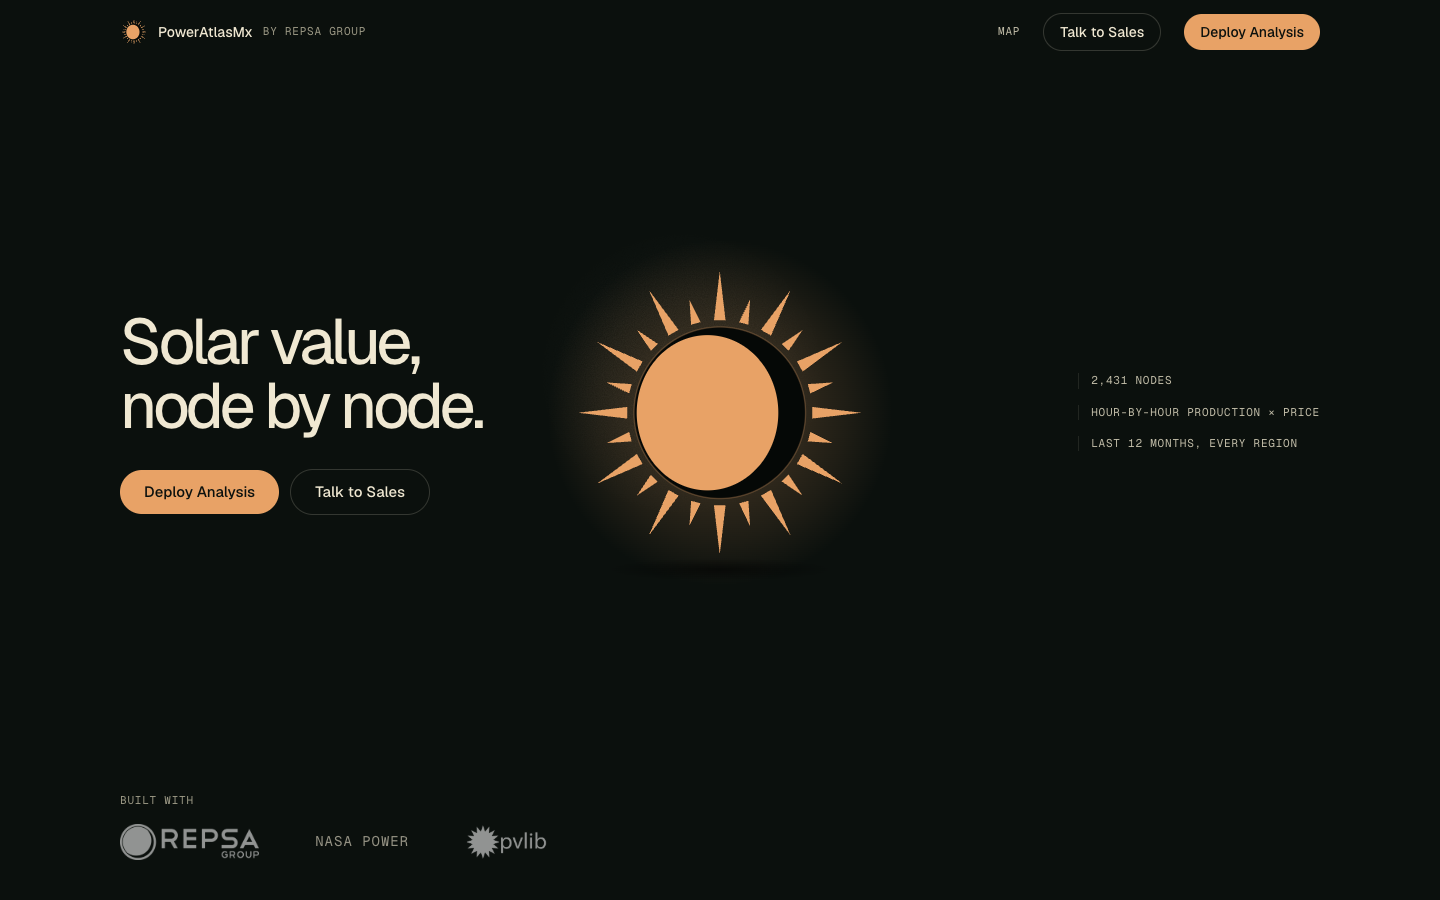
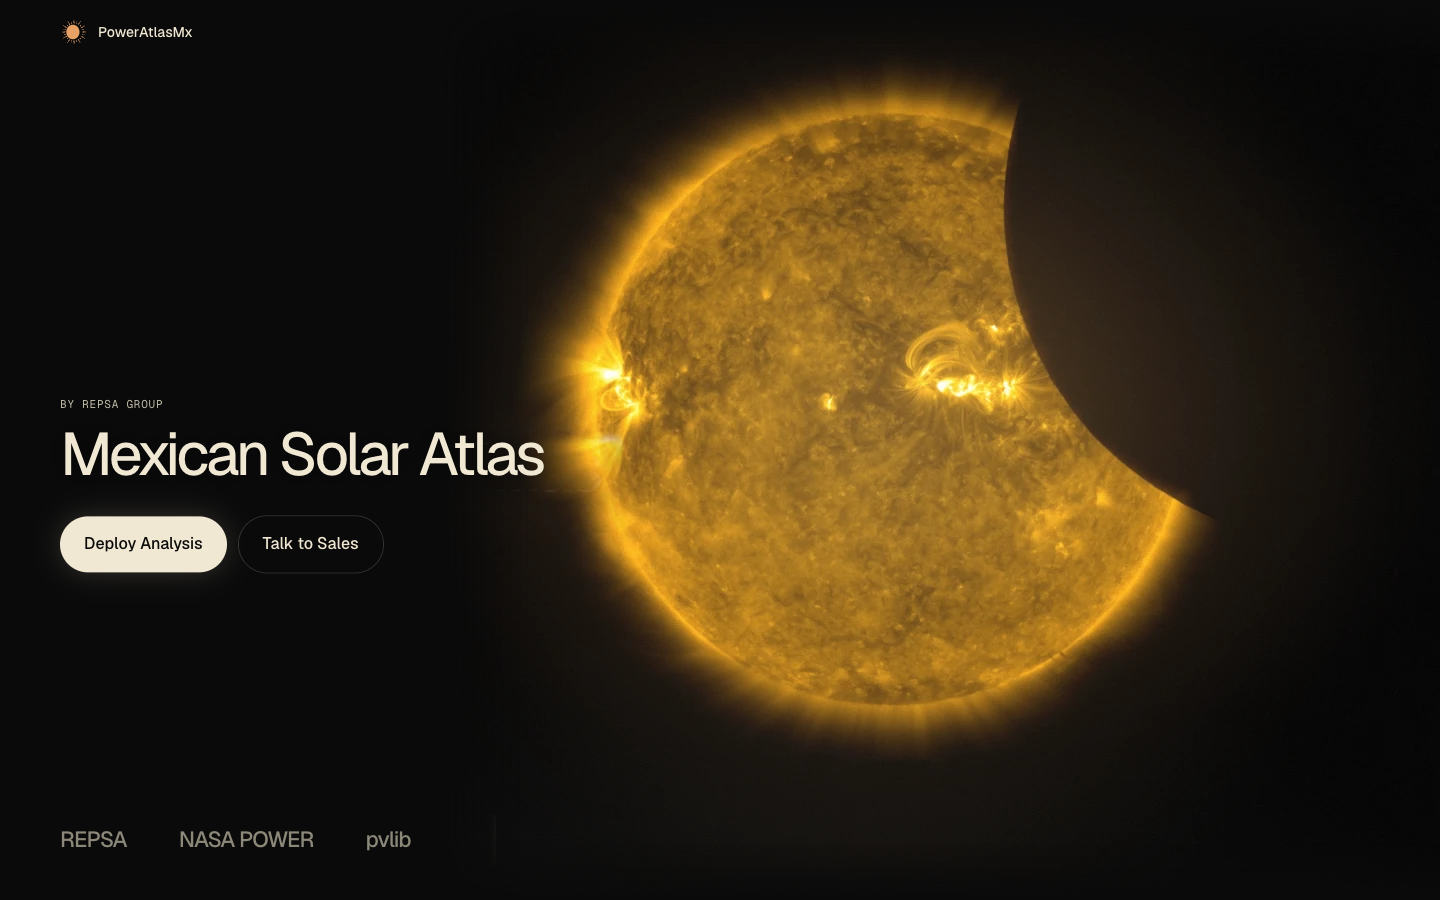
v2: landing from approved mock

diff --git a/web/v2/assets/js/landing.js b/web/v2/assets/js/landing.js
@@ -1,70 +1,51 @@
-// Landing: nav, hero, logo strip, Talk to Sales modal.
+// Landing (from the approved mock): black page, eclipse photo right of centre, headline, two pills, muted wordmarks.
 import { CONFIG } from '../../config.js';
 import { eclipseSVG } from './logo.js';
 
-const STAMPS = ['2,431 nodes', 'Hour-by-hour production × price', 'Last 12 months, every region'];
-
 async function clientLogos() {
   try {
-    const r = await fetch('assets/img/clients/manifest.json');
-    const j = await r.json();
+    const j = await (await fetch('assets/img/clients/manifest.json')).json();
     return Array.isArray(j.clients) ? j.clients : [];
   } catch { return []; }
 }
 
-const grain = `<svg class="grain" width="100%" height="100%" aria-hidden="true"><filter id="g"><feTurbulence type="fractalNoise" baseFrequency=".9" numOctaves="2" stitchTiles="stitch"/><feColorMatrix values="0 0 0 0 1  0 0 0 0 .8  0 0 0 0 .6  0 0 0 1.4 -.2"/></filter><rect width="100%" height="100%" filter="url(#g)"/></svg>`;
-
 export function renderLanding(root) {
   const email = CONFIG.CONTACT_EMAIL;
   root.innerHTML = `
-  <header class="nav">
-    <a class="brand" href="#/" aria-label="${CONFIG.PRODUCT}, home">${eclipseSVG()}<span>${CONFIG.PRODUCT}</span><span class="by mono">${CONFIG.BYLINE}</span></a>
-    <span class="spacer"></span>
-    <nav class="nav-links mono" aria-label="Primary"><a href="#/map">Map</a></nav>
-    <button class="btn btn-ghost btn-sm" data-sales ${email ? '' : 'disabled title="Contact address pending"'}>Talk to Sales</button>
-    <a class="btn btn-primary btn-sm" href="#/map">Deploy Analysis</a>
-  </header>
-  <main class="hero">
-    <section class="hero-main" aria-labelledby="h1">
-      <div>
-        <h1 id="h1">Solar value,<br>node by node.</h1>
-        <div class="hero-cta">
-          <a class="btn btn-primary" id="deploy" href="#/map">Deploy Analysis</a>
-          <button class="btn btn-ghost" data-sales ${email ? '' : 'disabled title="Contact address pending"'}>Talk to Sales</button>
-        </div>
+  <div class="landing">
+    <img class="hero-sun" id="sun" src="assets/img/hero-sun.webp" alt="" width="1000" height="900" decoding="async" fetchpriority="high">
+    <header class="nav">
+      <a class="brand" href="#/" aria-label="${CONFIG.PRODUCT}, home">${eclipseSVG()}<span>${CONFIG.PRODUCT}</span></a>
+    </header>
+    <main class="land-main">
+      <p class="mono eyebrow">${CONFIG.BYLINE}</p>
+      <h1 id="h1">Mexican Solar Atlas</h1>
+      <div class="hero-cta">
+        <a class="btn btn-cream" id="deploy" href="#/map">Deploy Analysis</a>
+        <button class="btn btn-dark" data-sales ${email ? '' : 'disabled title="Contact address pending"'}>Talk to Sales</button>
       </div>
-      <div class="hero-mark" aria-hidden="true"><div class="glow"></div>${grain}<div class="shadow"></div>${eclipseSVG({ cls: 'mark' })}</div>
-      <ul class="stamps mono" aria-label="Highlights">${STAMPS.map((s) => `<li>${s}</li>`).join('')}</ul>
-    </section>
-    <section class="strip" aria-label="Built with">
-      <div class="strip-label mono">Built with</div>
-      <ul id="logos">
-        <li><img src="assets/img/repsa-logo.png" alt="REPSA Group"></li>
-        <li><span class="word mono">NASA POWER</span></li>
-        <li><img src="assets/img/pvlib-logo.png" alt="pvlib"></li>
-      </ul>
-    </section>
-  </main>
-  <div class="modal" id="sales" hidden role="dialog" aria-modal="true" aria-labelledby="sales-h">
-    <form id="sales-form">
-      <h2 id="sales-h">Talk to Sales</h2>
-      <label><span class="mono">Your name</span><input name="name" autocomplete="name" required></label>
-      <label><span class="mono">Company</span><input name="company" autocomplete="organization"></label>
-      <label><span class="mono">What do you want to look at?</span><textarea name="msg"></textarea></label>
-      <div class="row"><button type="button" class="btn btn-ghost btn-sm" data-close>Cancel</button><button class="btn btn-primary btn-sm" type="submit">Open email</button></div>
-    </form>
+    </main>
+    <footer class="land-strip" aria-label="Built with">
+      <ul id="logos"><li>REPSA</li><li>NASA POWER</li><li>pvlib</li></ul>
+    </footer>
+    <div class="modal" id="sales" hidden role="dialog" aria-modal="true" aria-labelledby="sales-h">
+      <form id="sales-form">
+        <h2 id="sales-h">Talk to Sales</h2>
+        <label><span class="mono">Your name</span><input name="name" autocomplete="name" required></label>
+        <label><span class="mono">Company</span><input name="company" autocomplete="organization"></label>
+        <label><span class="mono">What do you want to look at?</span><textarea name="msg"></textarea></label>
+        <div class="row"><button type="button" class="btn btn-ghost btn-sm" data-close>Cancel</button><button class="btn btn-cream btn-sm" type="submit">Open email</button></div>
+      </form>
+    </div>
   </div>`;
 
-  // append client logos from the manifest (empty until Nico supplies them)
   clientLogos().then((list) => {
     const ul = root.querySelector('#logos');
     if (!ul) return;
     for (const c of list) {
       if (!c || !c.src || !c.name) continue;
-      const li = document.createElement('li');
-      const img = document.createElement('img');
-      img.src = c.src; img.alt = c.name;
-      li.append(img); ul.prepend(li);
+      const li = document.createElement('li'); const img = document.createElement('img');
+      img.src = c.src; img.alt = c.name; li.append(img); ul.prepend(li);
     }
   });
 

diff --git a/web/v2/assets/css/base.css b/web/v2/assets/css/base.css
@@ -1,6 +1,6 @@
 *, *::before, *::after { box-sizing: border-box; }
 html, body { margin: 0; height: 100%; }
-body { background: var(--canvas); color: var(--ink); font: 450 15px/1.5 var(--font-sans); -webkit-font-smoothing: antialiased; overflow-x: hidden; }
+body { background: var(--black); color: var(--ink); font: 450 15px/1.5 var(--font-sans); -webkit-font-smoothing: antialiased; overflow-x: hidden; }
 a { color: inherit; }
 button { font: inherit; color: inherit; cursor: pointer; }
 :focus-visible { outline: 2px solid var(--accent); outline-offset: 2px; }
@@ -25,31 +25,6 @@ button { font: inherit; color: inherit; cursor: pointer; }
 .btn-sm { height: 36px; padding: 0 16px; font-size: 14px; }
 .btn[disabled] { opacity: .5; cursor: not-allowed; }
 
-/* hero */
-.hero { position: relative; min-height: 100vh; min-height: 100svh; display: grid; grid-template-rows: 1fr auto; padding: 64px 0 0; }
-.hero-main { position: relative; display: grid; grid-template-columns: 1fr 1fr 1fr; align-items: center; gap: 24px; max-width: var(--max); width: 100%; margin: 0 auto; padding: 0 clamp(16px, 3vw, 40px); }
-.hero h1 { margin: 0 0 32px; font-size: clamp(44px, 5.2vw, 64px); font-weight: 450; letter-spacing: -.06em; line-height: 1; }
-.hero-cta { display: flex; gap: 12px; flex-wrap: wrap; }
-.hero-mark { position: relative; display: grid; place-items: center; aspect-ratio: 1; width: min(100%, 460px); margin: 0 auto; }
-.hero-mark .glow { position: absolute; inset: -10%; border-radius: 50%; background: radial-gradient(closest-side, rgba(232, 162, 102, .30), rgba(232, 162, 102, .09) 55%, transparent 75%); animation: breathe 8s ease-in-out infinite; }
-.hero-mark .grain { position: absolute; inset: -10%; border-radius: 50%; opacity: .05; mix-blend-mode: screen; -webkit-mask-image: radial-gradient(closest-side, #000 40%, transparent 75%); mask-image: radial-gradient(closest-side, #000 40%, transparent 75%); }
-.hero-mark .shadow { position: absolute; left: 20%; right: 20%; bottom: 6%; height: 6%; background: radial-gradient(closest-side, rgba(0, 0, 0, .55), transparent); }
-.hero-mark svg.mark { position: relative; width: 78%; height: 78%; }
-.hero-mark .rays { transform-origin: 50% 50%; animation: drift 60s linear infinite; }
-.stamps { list-style: none; margin: 0; padding: 0; display: grid; gap: 16px; justify-self: end; color: var(--ink-2); }
-.stamps li { padding-left: 12px; border-left: 1px solid var(--hairline); }
-@keyframes breathe { 0%, 100% { opacity: .75; transform: scale(.96); } 50% { opacity: 1; transform: scale(1.04); } }
-@keyframes drift { to { transform: rotate(60deg); } }
-
-/* logo strip */
-.strip { max-width: var(--max); width: 100%; margin: 0 auto; padding: 32px clamp(16px, 3vw, 40px) 40px; }
-.strip-label { color: var(--ink-3); margin-bottom: 16px; }
-.strip ul { list-style: none; margin: 0; padding: 0; display: flex; flex-wrap: wrap; align-items: center; gap: 24px 56px; }
-.strip li { display: flex; align-items: center; height: 36px; opacity: .6; transition: opacity var(--dur) var(--ease); }
-.strip li:hover { opacity: 1; }
-.strip img { height: 100%; width: auto; filter: brightness(0) invert(.92); }
-.strip .word { color: var(--ink); font-size: 14px; }
-
 /* modal */
 .modal { position: fixed; inset: 0; z-index: 40; display: grid; place-items: center; padding: 16px; background: rgba(5, 8, 6, .72); }
 .modal[hidden] { display: none; }
@@ -60,17 +35,10 @@ button { font: inherit; color: inherit; cursor: pointer; }
 .modal textarea { min-height: 96px; resize: vertical; }
 .modal .row { display: flex; gap: 8px; justify-content: flex-end; margin-top: 4px; }
 
-/* stage placeholder for routes after the landing */
-.stage { position: fixed; inset: 0; background: var(--canvas); }
 
 @media (max-width: 900px) {
-  .hero-main { grid-template-columns: 1fr; padding-top: 16px; padding-bottom: 24px; gap: 16px; }
-  .hero-mark { order: -1; width: min(60%, 260px); }
-  .stamps { justify-self: start; }
-  .nav-links, .nav .by, .nav .btn-ghost { display: none; }
-  .hero h1 { margin-bottom: 24px; }
+  .nav-links, .nav .by { display: none; }
 }
 @media (prefers-reduced-motion: reduce) {
-  .hero-mark .glow, .hero-mark .rays { animation: none; }
   .btn { transition: none; }
 }

diff --git a/web/v2/assets/css/landing.css b/web/v2/assets/css/landing.css
@@ -1,0 +1,29 @@
+/* landing: pure black page, eclipse photo right of centre (from the approved mock) */
+.landing { position: relative; z-index: 3; min-height: 100vh; min-height: 100svh; overflow: hidden; background: var(--black); }
+.hero-sun { position: absolute; top: 0; right: 0; height: 100%; width: auto; aspect-ratio: 1000 / 900; max-width: none; pointer-events: none; user-select: none;
+  transform-origin: 45% 44%; animation: sunbreath 12s ease-in-out infinite;
+  -webkit-mask-image: linear-gradient(90deg, transparent 0, #000 9%), linear-gradient(180deg, transparent 0, #000 7%, #000 93%, transparent 100%);
+  -webkit-mask-composite: source-in; mask-image: linear-gradient(90deg, transparent 0, #000 9%), linear-gradient(180deg, transparent 0, #000 7%, #000 93%, transparent 100%); mask-composite: intersect; }
+.landing .nav { padding: 0 clamp(24px, 4.2vw, 60px); height: 64px; }
+.land-main { position: absolute; z-index: 2; left: clamp(24px, 4.2vw, 60px); top: 50%; transform: translateY(-30%); }
+.land-main .eyebrow { margin: 0 0 12px; color: var(--ink-2); }
+.land-main h1 { margin: 0 0 32px; font-size: clamp(40px, 4.2vw, 60px); font-weight: 450; letter-spacing: -.06em; line-height: 1; text-shadow: 0 0 28px rgba(0, 0, 0, .55); }
+.hero-cta { display: flex; gap: 12px; flex-wrap: wrap; }
+.btn-cream { background: var(--ink); color: var(--black); box-shadow: 0 0 28px rgba(240, 232, 210, .18); }
+.btn-dark { background: rgba(10, 10, 10, .85); color: var(--ink); box-shadow: var(--ring-strong); }
+.landing .btn { height: 56px; padding: 0 24px; font-size: 16px; }
+.land-strip { position: absolute; z-index: 2; left: clamp(24px, 4.2vw, 60px); bottom: 44px; }
+.land-strip ul { list-style: none; margin: 0; padding: 0; display: flex; gap: clamp(24px, 4vw, 52px); align-items: center; }
+.land-strip li { font-size: 22px; font-weight: 500; letter-spacing: -.04em; color: var(--ink-2); opacity: .7; transition: opacity var(--dur) var(--ease); }
+.land-strip li:hover { opacity: 1; }
+.land-strip img { height: 28px; width: auto; filter: brightness(0) invert(.8); }
+@keyframes sunbreath { 0%, 100% { transform: scale(1); } 50% { transform: scale(1.018); } }
+
+@media (max-width: 900px) {
+  .hero-sun { height: 58svh; right: -22vw; top: 40px; }
+  .land-main { top: auto; bottom: 120px; transform: none; }
+  .land-main h1 { font-size: clamp(38px, 11vw, 52px); }
+  .land-strip { bottom: 36px; }
+  .land-strip li { font-size: 18px; }
+}
+@media (prefers-reduced-motion: reduce) { .hero-sun { animation: none; } }

diff --git a/web/v2/assets/css/tokens.css b/web/v2/assets/css/tokens.css
@@ -4,6 +4,8 @@
 @font-face { font-family: 'Geist Mono'; src: url('../fonts/GeistMono-Variable.woff2') format('woff2'); font-weight: 100 900; font-display: swap; }
 :root {
   color-scheme: dark;
+  /* page background for everything except the map canvas */
+  --black: #0A0A0A;
   /* surfaces: tonal steps, no shadows */
   --canvas: #0B100D;
   --surface: #111813;
